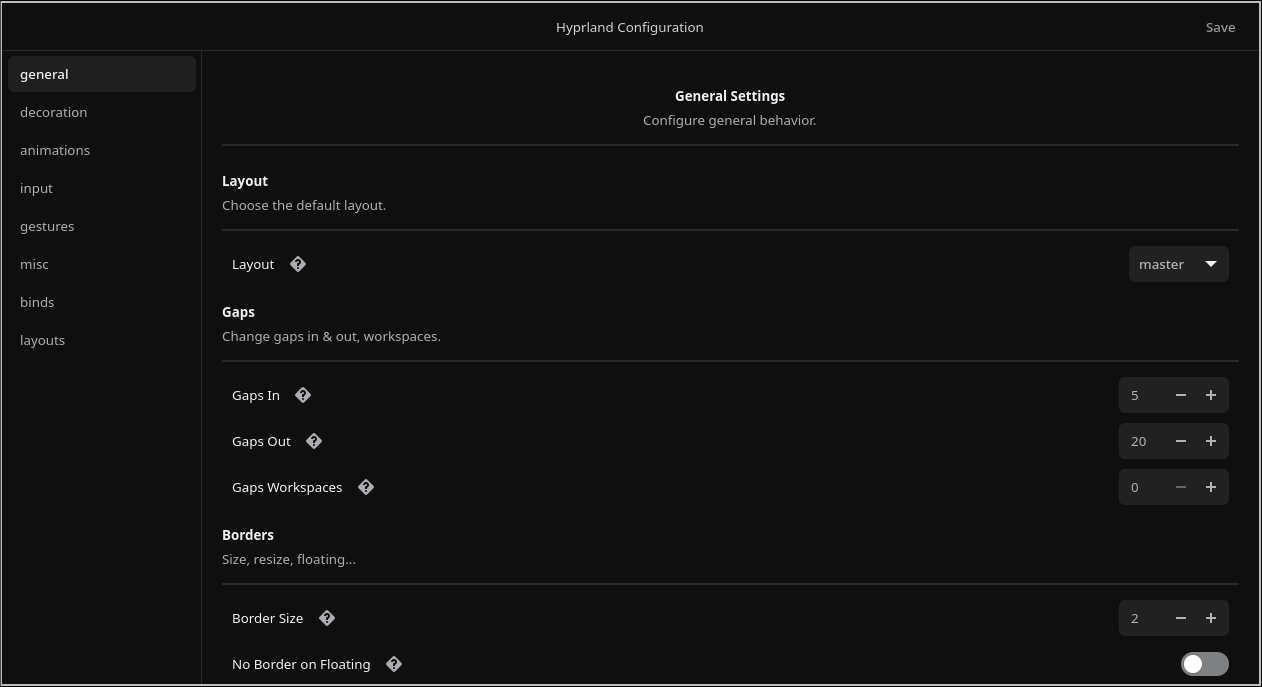
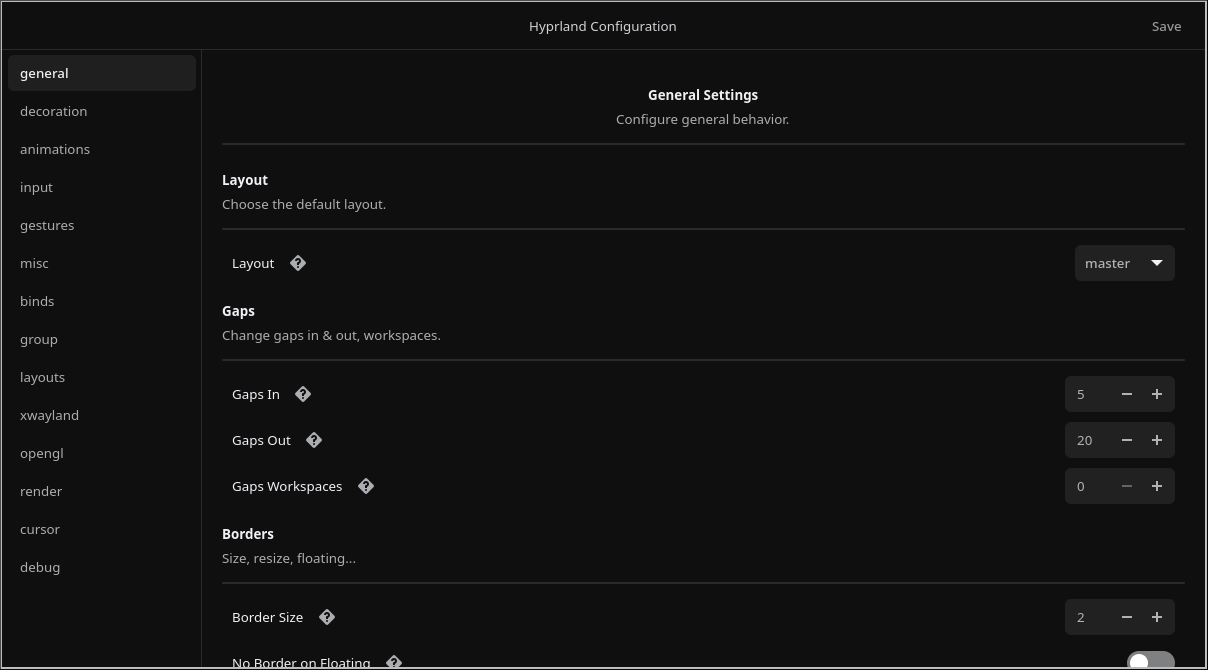
Add more sections e.g. debug cursor render (#23)
* Add more sections e.g. debug cursor render

* upd preview

diff --git a/src/gui.rs b/src/gui.rs
@@ -147,6 +147,11 @@ impl ConfigGUI {
             "binds",
             "group",
             "layouts",
+            "xwayland",
+            "opengl",
+            "render",
+            "cursor",
+            "debug",
         ] {
             let widget = ConfigWidget::new(category);
             self.stack
